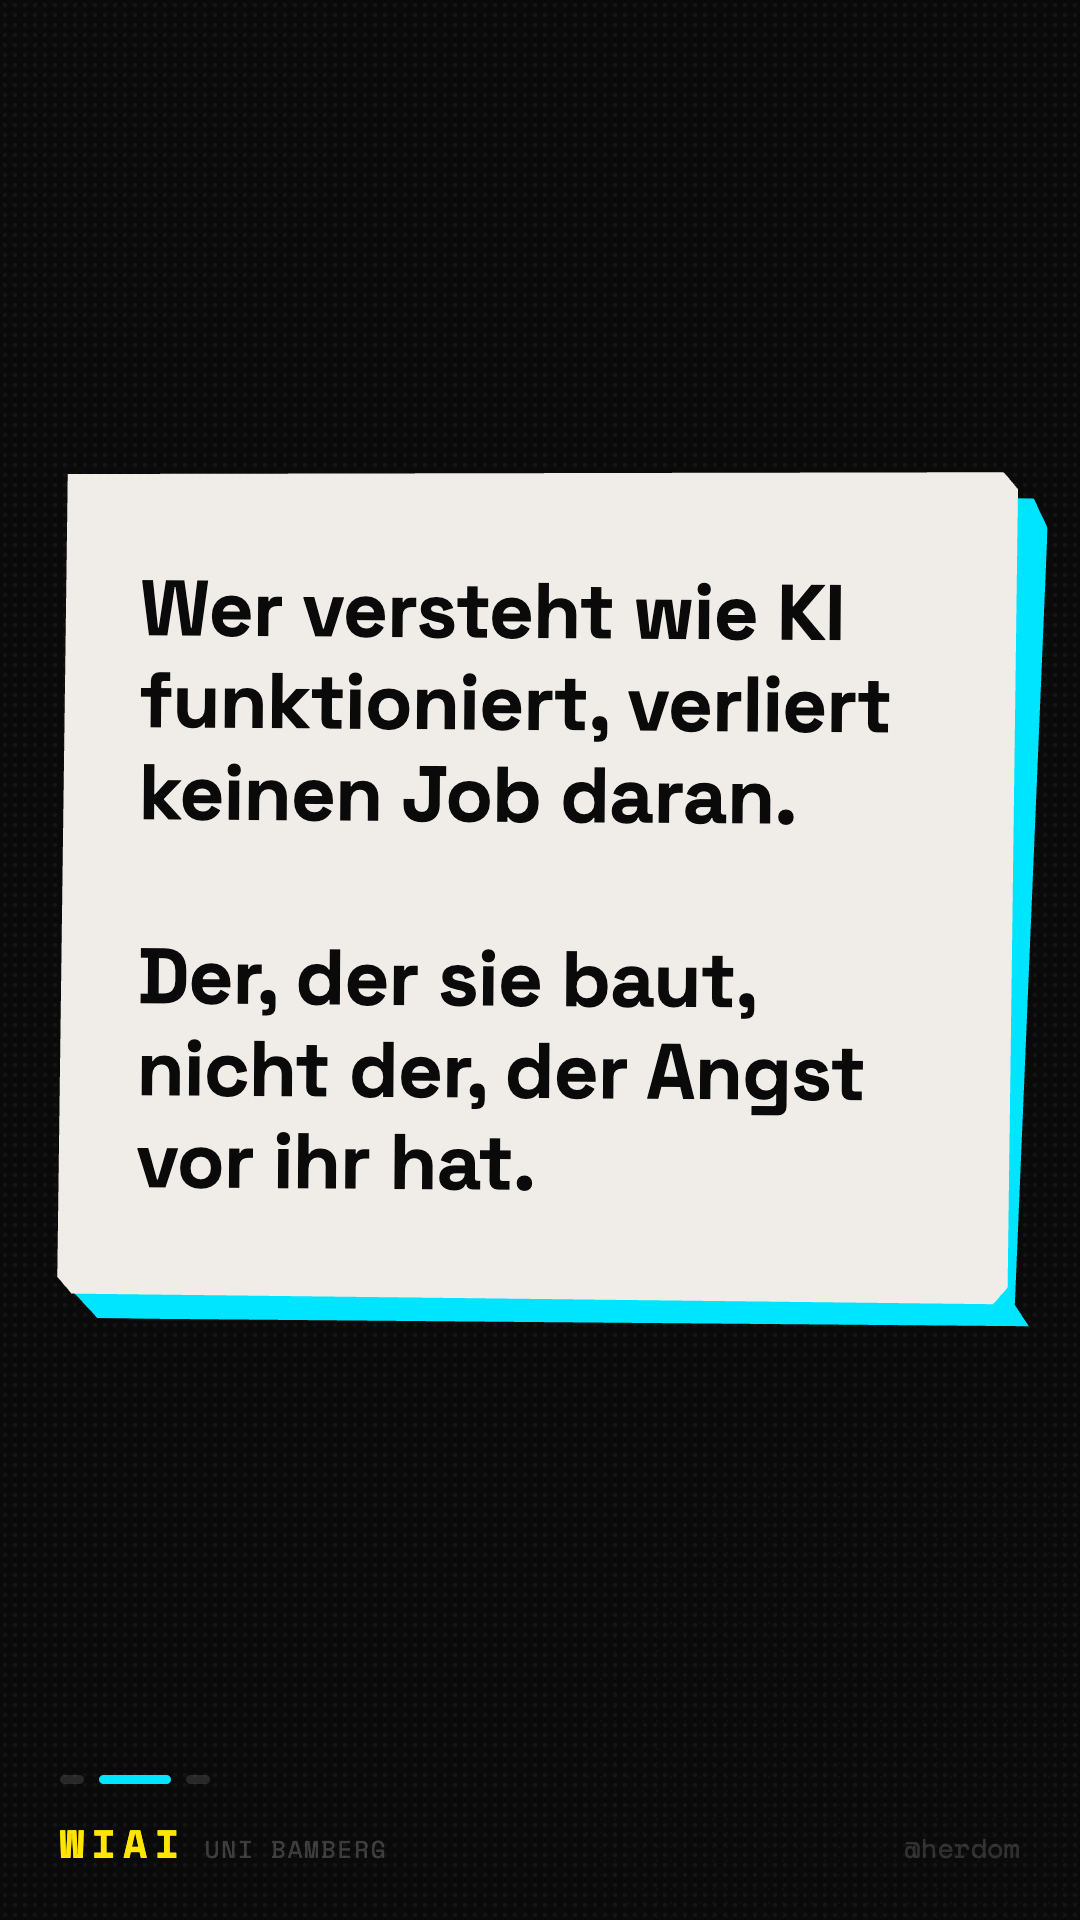
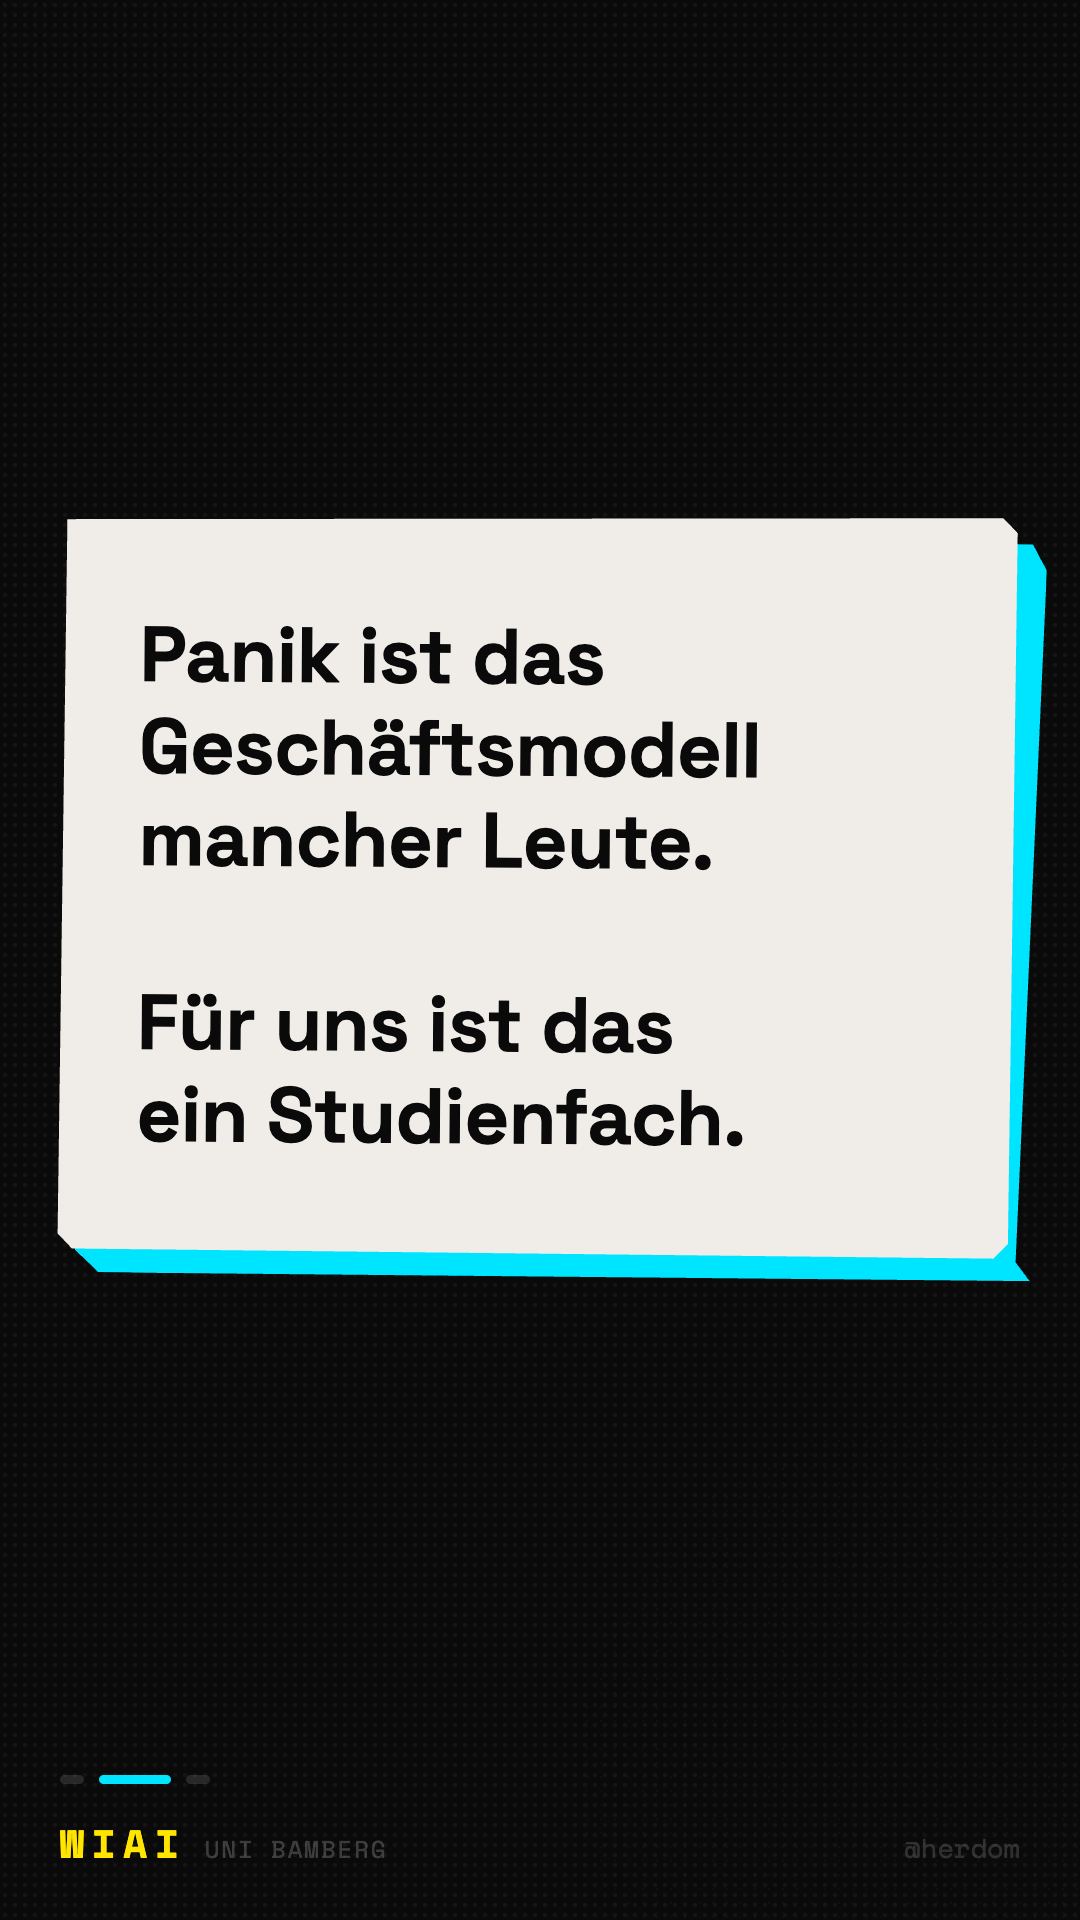
Redesign Slide 1: full-bleed screenshot with halftone overlay
Screenshot now fills the entire frame as background (darkened, scanlines,
heavy halftone), gradient fades to black at bottom, text overlaid at bottom.
Also fix KI post text: "Tja." + "Panik ist das Geschäftsmodell mancher Leute.
Für uns ist das ein Studienfach."

Changed region(s): [[0.0306, 0.2188, 0.9778, 0.7188]]

diff --git a/pr-wiai/wiai-social/src/compositions/Newsjacking.tsx b/pr-wiai/wiai-social/src/compositions/Newsjacking.tsx
@@ -1,11 +1,11 @@
 import React from "react";
-import { Sequence, useCurrentFrame, interpolate } from "remotion";
+import { Sequence, useCurrentFrame, interpolate, Img, staticFile } from "remotion";
 import { Post } from "../types";
 import { WIAI_YELLOW } from "../styles/colors";
 import { spaceGroteskFamily, spaceMonoFamily } from "../styles/fonts";
+import { halftonePatternUri, scanlineGradient } from "../styles/textures";
 import { SlideFrame } from "../components/SlideFrame";
 import { GlitchText } from "../components/GlitchText";
-import { HalftoneImage } from "../components/HalftoneImage";
 import { DirtyCutout } from "../components/DirtyCutout";
 import { TypewriterText } from "../components/TypewriterText";
 import { CtaSlide } from "../components/CtaSlide";
@@ -18,22 +18,77 @@ const Act1: React.FC<{ post: Post; showQuote?: boolean }> = ({ post, showQuote =
   const frame = useCurrentFrame();
   const accent = post.accentColor ?? WIAI_YELLOW;
 
-  const tagOpacity = interpolate(frame, [5, 10], [0, 1], { extrapolateRight: "clamp" });
-  const imgTranslateY = interpolate(frame, [10, 18], [60, 0], { extrapolateRight: "clamp" });
-  const imgOpacity = interpolate(frame, [10, 18], [0, 1], { extrapolateRight: "clamp" });
-  const smallOpacity = interpolate(frame, [15, 22], [0, 1], { extrapolateRight: "clamp" });
-  const bigOpacity = interpolate(frame, [35, 45], [0, 1], { extrapolateRight: "clamp" });
+  const imgOpacity = interpolate(frame, [0, 12], [0, 1], { extrapolateRight: "clamp" });
+  const tagOpacity = interpolate(frame, [8, 16], [0, 1], { extrapolateRight: "clamp" });
+  const smallOpacity = interpolate(frame, [18, 26], [0, 1], { extrapolateRight: "clamp" });
+  const bigOpacity = interpolate(frame, [32, 42], [0, 1], { extrapolateRight: "clamp" });
 
   return (
     <SlideFrame accentColor={accent} currentSlide={1}>
+      {/* Full-bleed screenshot background */}
+      {!showQuote && post.slide1.image && (
+        <div
+          style={{
+            position: "absolute",
+            inset: 0,
+            zIndex: 1,
+            opacity: imgOpacity,
+          }}
+        >
+          <Img
+            src={staticFile(resolveAssetPath(post.slide1.image))}
+            style={{
+              width: "100%",
+              height: "100%",
+              objectFit: "cover",
+              objectPosition: "center top",
+              filter: "contrast(1.05) brightness(0.65) saturate(0.8)",
+            }}
+          />
+          {/* Heavy halftone overlay for pop-art treatment */}
+          <div
+            style={{
+              position: "absolute",
+              inset: 0,
+              backgroundImage: halftonePatternUri("white", 0.18, 5),
+              backgroundSize: "5px 5px",
+              mixBlendMode: "overlay",
+              pointerEvents: "none",
+            }}
+          />
+          {/* Scanlines */}
+          <div
+            style={{
+              position: "absolute",
+              inset: 0,
+              background: scanlineGradient(0.18),
+              pointerEvents: "none",
+            }}
+          />
+          {/* Gradient: transparent top → solid black bottom — text readability */}
+          <div
+            style={{
+              position: "absolute",
+              inset: 0,
+              background:
+                "linear-gradient(to bottom, rgba(10,10,10,0.15) 0%, rgba(10,10,10,0.5) 50%, rgba(10,10,10,0.92) 75%, #0A0A0A 100%)",
+              pointerEvents: "none",
+            }}
+          />
+        </div>
+      )}
+
+      {/* Text content — sits over the background */}
       <div
         style={{
           flex: 1,
           display: "flex",
           flexDirection: "column",
-          justifyContent: "center",
-          padding: "0 60px",
-          gap: 60,
+          justifyContent: "flex-end",
+          padding: "0 60px 60px",
+          position: "relative",
+          zIndex: 5,
+          gap: 36,
         }}
       >
         {/* Category tag */}
@@ -48,49 +103,35 @@ const Act1: React.FC<{ post: Post; showQuote?: boolean }> = ({ post, showQuote =
               fontFamily: spaceMonoFamily,
             }}
           >
-            {post.category}
+            ■ {post.category}
           </div>
         )}
 
-        {/* Screenshot image — newsjacking only */}
-        {!showQuote && post.slide1.image && (
+        {/* Contrarian: big quoted opinion */}
+        {showQuote && post.slide1.smallText && (
           <div
             style={{
-              opacity: imgOpacity,
-              transform: `translateY(${imgTranslateY}px)`,
-              maxHeight: 480,
-              overflow: "hidden",
-              borderRadius: 6,
-              border: "1px solid rgba(255,255,255,0.08)",
-            }}
-          >
-            <HalftoneImage src={resolveAssetPath(post.slide1.image)} />
-          </div>
-        )}
-
-        {/* Contrarian: big quoted text instead of image */}
-        {showQuote && post.slide1.image && (
-          <div
-            style={{
-              opacity: imgOpacity,
+              opacity: smallOpacity,
               color: "rgba(255,255,255,0.55)",
               fontSize: 60,
               fontWeight: 700,
               fontFamily: spaceGroteskFamily,
               lineHeight: 1.2,
               whiteSpace: "pre-line",
+              borderLeft: `6px solid ${accent}`,
+              paddingLeft: 36,
             }}
           >
-            {`"${post.slide1.image}"`}
+            {`"${post.slide1.smallText}"`}
           </div>
         )}
 
-        {/* smallText context line */}
-        {post.slide1.smallText && (
+        {/* Context line (newsjacking) */}
+        {!showQuote && post.slide1.smallText && (
           <div
             style={{
               opacity: smallOpacity,
-              color: "rgba(255,255,255,0.6)",
+              color: "rgba(255,255,255,0.7)",
               fontSize: 45,
               fontFamily: spaceGroteskFamily,
               lineHeight: 1.3,
@@ -100,7 +141,7 @@ const Act1: React.FC<{ post: Post; showQuote?: boolean }> = ({ post, showQuote =
           </div>
         )}
 
-        {/* bigText with glitch */}
+        {/* bigText reaction with glitch */}
         <div style={{ opacity: bigOpacity }}>
           <GlitchText
             text={post.slide1.bigText}
